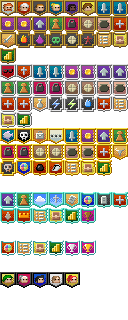
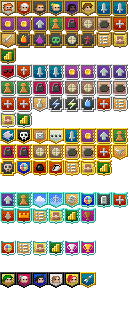
신규 뱃지 추가

Changed region(s): [[0.625, 0.8438, 0.75, 0.9062]]

diff --git a/core/src/main/java/com/shatteredpixel/shatteredpixeldungeon/items/weapon/melee/bow/BowWeapon.java b/core/src/main/java/com/shatteredpixel/shatteredpixeldungeon/items/weapon/melee/bow/BowWeapon.java
@@ -1,10 +1,10 @@
 package com.shatteredpixel.shatteredpixeldungeon.items.weapon.melee.bow;
 
+import com.shatteredpixel.shatteredpixeldungeon.Badges;
 import com.shatteredpixel.shatteredpixeldungeon.Dungeon;
 import com.shatteredpixel.shatteredpixeldungeon.actors.Actor;
 import com.shatteredpixel.shatteredpixeldungeon.actors.Char;
 import com.shatteredpixel.shatteredpixeldungeon.actors.buffs.Buff;
-import com.shatteredpixel.shatteredpixeldungeon.actors.buffs.FlavourBuff;
 import com.shatteredpixel.shatteredpixeldungeon.actors.hero.Hero;
 import com.shatteredpixel.shatteredpixeldungeon.items.ArrowItem;
 import com.shatteredpixel.shatteredpixeldungeon.items.weapon.bow.SpiritBow;
@@ -16,7 +16,6 @@ import com.shatteredpixel.shatteredpixeldungeon.scenes.GameScene;
 import com.shatteredpixel.shatteredpixeldungeon.sprites.ItemSpriteSheet;
 import com.shatteredpixel.shatteredpixeldungeon.ui.BuffIndicator;
 import com.shatteredpixel.shatteredpixeldungeon.utils.GLog;
-import com.watabou.noosa.Image;
 import com.watabou.utils.Bundle;
 import com.watabou.utils.Random;
 
@@ -215,6 +214,10 @@ public class BowWeapon extends MeleeWeapon {
         public void hit() {
             arrows++;
             left = DURATION;
+
+            if (arrows >= 10) {
+                Badges.validateHedgehog();
+            }
         }
 
         @Override

diff --git a/core/src/main/java/com/shatteredpixel/shatteredpixeldungeon/Badges.java b/core/src/main/java/com/shatteredpixel/shatteredpixeldungeon/Badges.java
@@ -261,7 +261,9 @@ public class Badges {
 		UNLOCK_SAMURAI				(137),
 		UNLOCK_ADVENTURER			(138),
 		UNLOCK_KNIGHT				(139),
-		UNLOCK_MEDIC				(140);
+		UNLOCK_MEDIC				(140),
+
+		HEDGEHOG					(141);
 
 		public boolean meta;
 
@@ -1250,6 +1252,14 @@ public class Badges {
 		}
 		local.add(badge);
 		displayBadge( badge );
+	}
+
+	public static void validateHedgehog() {
+		if (!local.contains( Badge.HEDGEHOG )) {
+			Badge badge = Badge.HEDGEHOG;
+			local.add( badge );
+			displayBadge( badge );
+		}
 	}
 	
 	private static void displayBadge( Badge badge ) {
